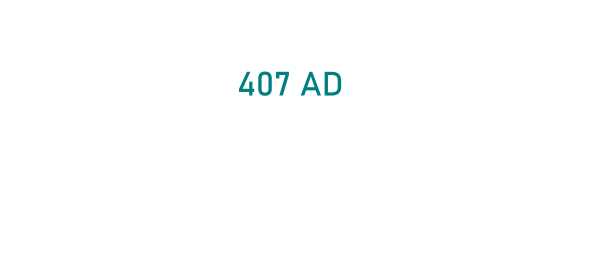
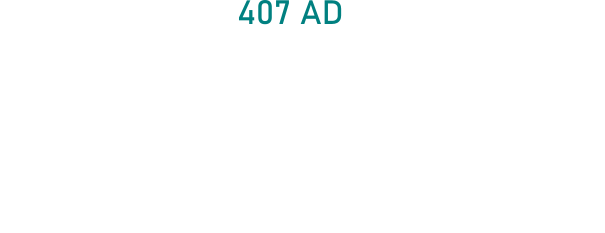
imporoved story transition graphics

Changed region(s): [[0.3868, 0.2403, 0.5653, 0.3605], [0.3868, 0.0, 0.5653, 0.1202]]

diff --git a/Time Lapse/src/time_lapse/TransitionState.java b/Time Lapse/src/time_lapse/TransitionState.java
@@ -17,14 +17,14 @@ public class TransitionState extends BasicGameState {
 	@Override
 	public void init(GameContainer container, StateBasedGame game) throws SlickException {
 		// TODO Auto-generated method stub
-		
+		story = 0;
 	}
 	@Override
 	public void enter(GameContainer container, StateBasedGame game) {
 		Game tl = (Game)game;
 		LevelManager.setLevel(game, tl.currLevel);
 		timer = 5000;
-		story = 0;
+		//story = 0;
 		next = false;
 	}
 	
@@ -36,7 +36,7 @@ public class TransitionState extends BasicGameState {
 			g.drawImage(ResourceManager.getImage(Game.story1), 300, 300);
 		}
 		if(story == 1) {
-			g.drawImage(ResourceManager.getImage(Game.story2), 400, 300);
+			g.drawImage(ResourceManager.getImage(Game.story2), 250, 300);
 		}
 		if(story == 2) {
 			g.drawImage(ResourceManager.getImage(Game.story3), 0, 0);
@@ -45,19 +45,20 @@ public class TransitionState extends BasicGameState {
 			g.drawImage(ResourceManager.getImage(Game.story4), 300, 300);
 		}
 		if(story == 4) {
-			g.drawImage(ResourceManager.getImage(Game.story5), 300, 300);
+			g.drawImage(ResourceManager.getImage(Game.story5), 300, 265);
+			next = true;
 		}
 		if(story == 5) {
 			next = true;
 		}
+		if(tl.currLevel == 2) {
+			g.drawImage(ResourceManager.getImage(Game.story6), 300, 265);
+		} else if(tl.currLevel == 3) {
+			g.drawImage(ResourceManager.getImage(Game.story7), 300, 265);
+		}
 		if(timer <= 0 && !next) {
 			story++;
-			timer = 7000;
-		}
-		if(tl.currLevel == 2) {
-			g.drawImage(ResourceManager.getImage(Game.LEVEL1_TRANSITION_RSC), 450, 300);
-		} else if(tl.currLevel == 3) {
-			g.drawImage(ResourceManager.getImage(Game.LEVEL2_TRANSITION_RSC), 450, 300);
+			timer = 8000;
 		}
 	}
 
@@ -68,6 +69,8 @@ public class TransitionState extends BasicGameState {
 		Game tl = (Game)game;
 		timer -= delta;
 		if(input.isKeyDown(Input.KEY_SPACE)) {
+				story = 6;
+				next = false;
 				game.enterState(Game.PLAYINGSTATE);
 		}
 		

diff --git a/Time Lapse/src/time_lapse/Game.java b/Time Lapse/src/time_lapse/Game.java
@@ -76,6 +76,8 @@ public class Game extends StateBasedGame {
 	public static final String story3 = "resources/t3.png";
 	public static final String story4 = "resources/t4.png";
 	public static final String story5 = "resources/t5.png";
+	public static final String story6 = "resources/t6.png";
+	public static final String story7 = "resources/t7.png";
 	// Enemy resources
 	
 	// Tree resources
@@ -161,6 +163,8 @@ public class Game extends StateBasedGame {
 		ResourceManager.loadImage(story3);
 		ResourceManager.loadImage(story4);
 		ResourceManager.loadImage(story5);
+		ResourceManager.loadImage(story6);
+		ResourceManager.loadImage(story7);
 		// LOAD ANIMATIONS FOR ENEMIES
 		
 		
